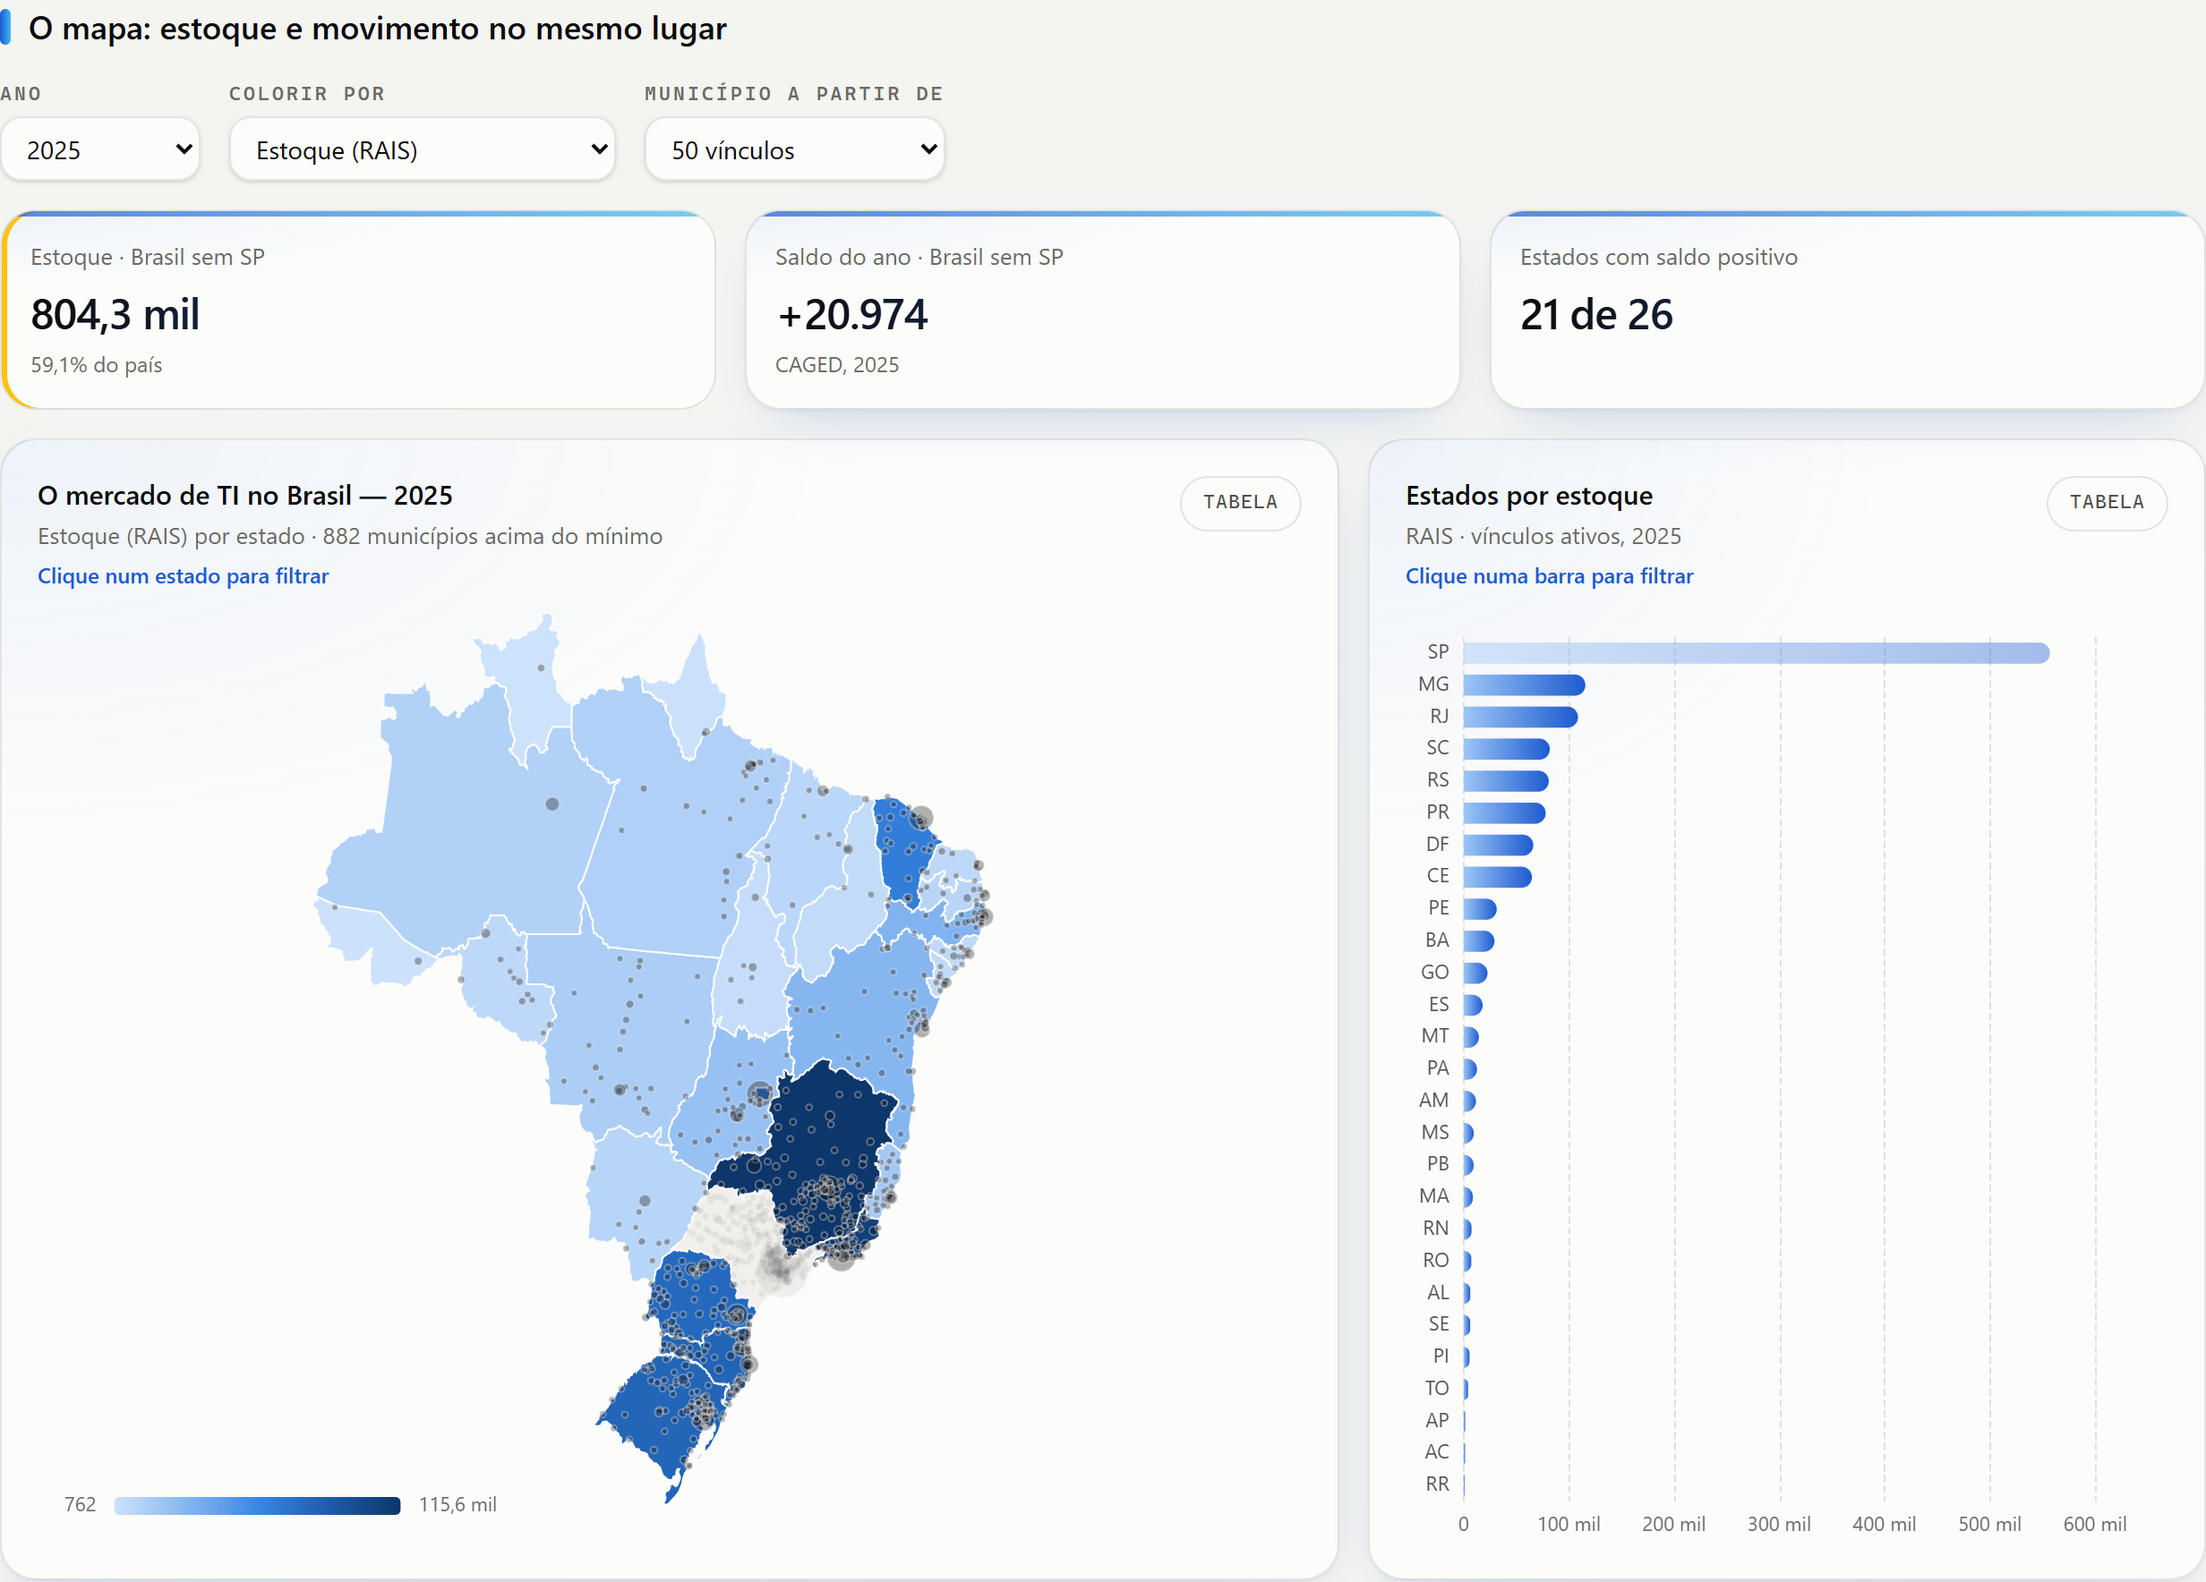
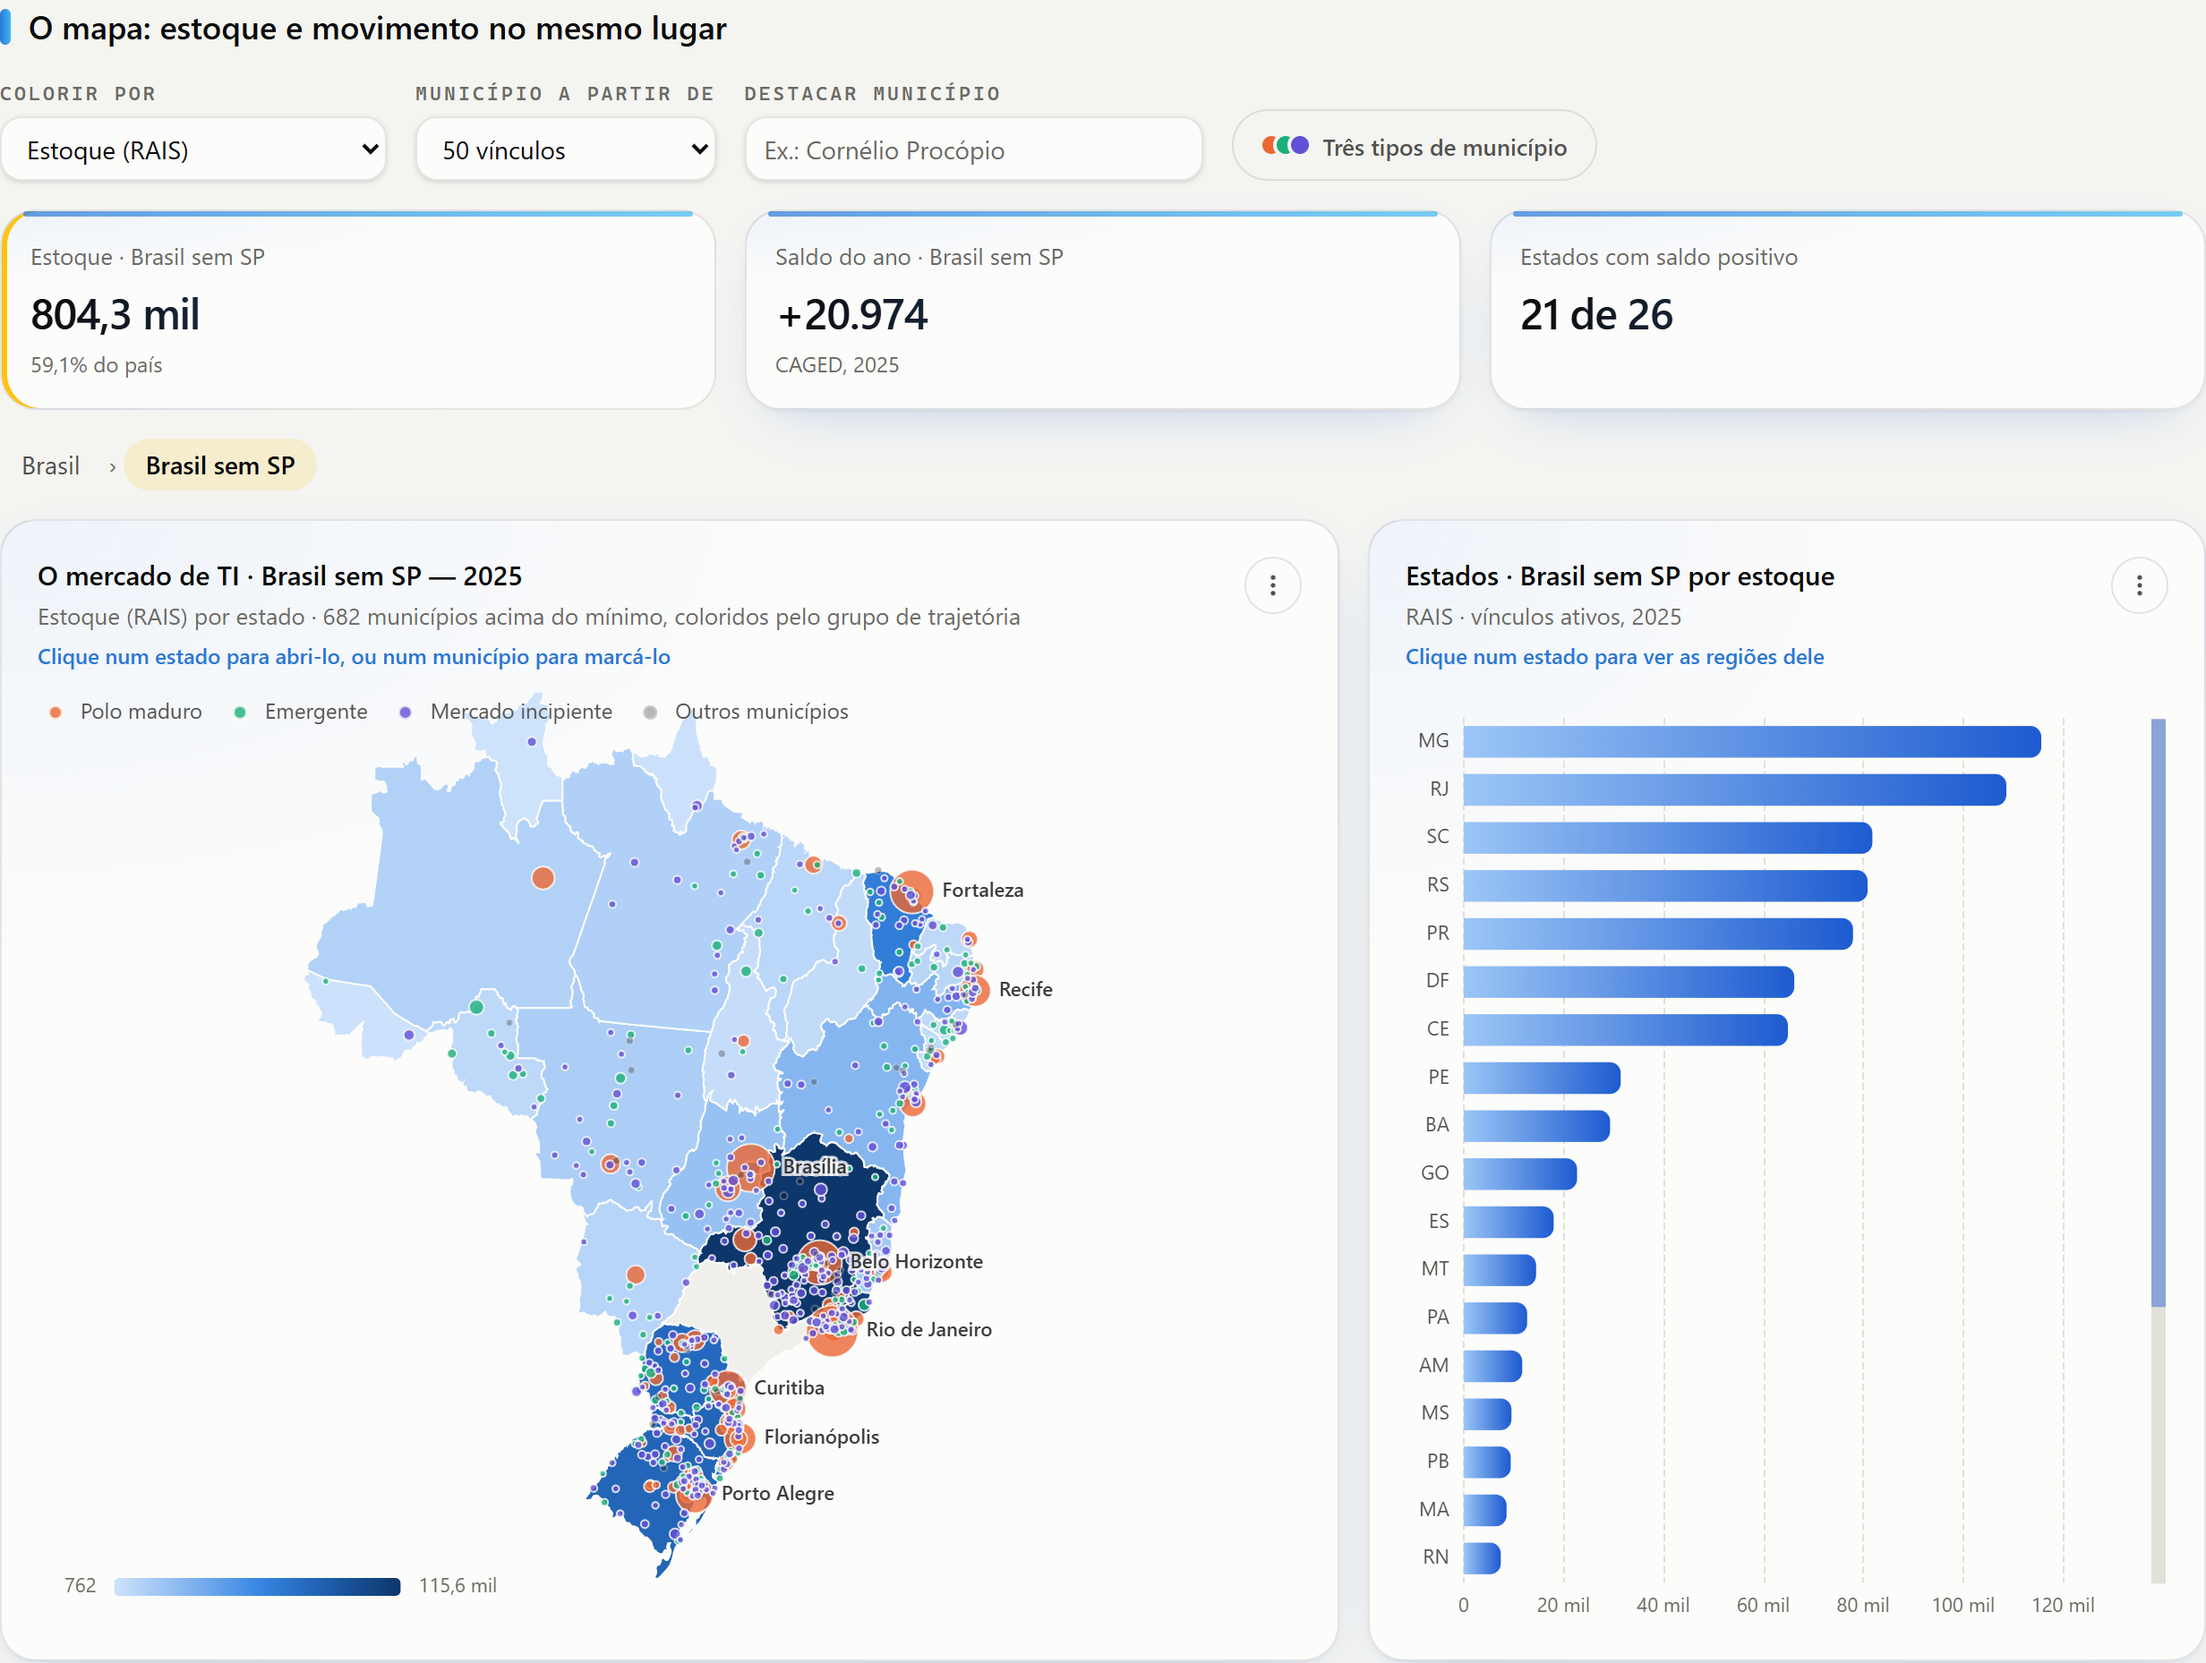
tcc: limitação do CAGED de 2007 e capturas novas do dashboard

diff --git a/overleaf/TCC2_Gian_Pedro_Rodrigues/estrutura/textuais/consideracoes-finais.tex b/overleaf/TCC2_Gian_Pedro_Rodrigues/estrutura/textuais/consideracoes-finais.tex
@@ -84,7 +84,7 @@ As limitações de fonte declaradas na \autoref{sec:limitacoes-metodo} delimitam
 
 Três limitações de método também precisam ficar registradas. A parcela não explicada da decomposição salarial não mede discriminação: ela é um limite superior para o que a discriminação poderia explicar. A tábua de vida de período descreve o risco vigente em um ano, e não a trajetória de uma coorte. E o \textit{nowcast} erra mais nos anos de mudança brusca do estoque, como 2022, que nenhum estimador apoiado no fluxo do CAGED antecipa.
 
-Há também uma lacuna de fonte. Dois arquivos do CAGED estão corrompidos no próprio servidor do MTE, e o de março de 2011 deixa de fora cerca de 0,17\% das movimentações de TI da série, concentradas no Sul, no Centro-Oeste e em São Paulo naquele mês (\autoref{subsec:perdas}).
+Há também duas lacunas de fonte. Dois arquivos do CAGED estão corrompidos no próprio servidor do MTE, e o de março de 2011 deixa de fora cerca de 0,17\% das movimentações de TI da série, concentradas no Sul, no Centro-Oeste e em São Paulo naquele mês (\autoref{subsec:perdas}). E o CAGED de 2007 não informa a atividade da empresa em 93\% das movimentações (a CNAE 1.0 vem vazia, e a 2.0 traz o código de não informado), o que deixa a lente de setor praticamente vazia naquele ano: no CAGED, as comparações por setor valem a partir de 2008.
 
 A validação externa também tem limites. O confronto com o painel do MTE (\autoref{sec:validacao-mte}) cobre só a lente de ocupação, e a RAIS apenas de 2023 a 2025; nele, o trabalho conta sistematicamente cerca de 1\% a mais que o painel, diferença de critério cuja origem a documentação pública não permite identificar.
 
